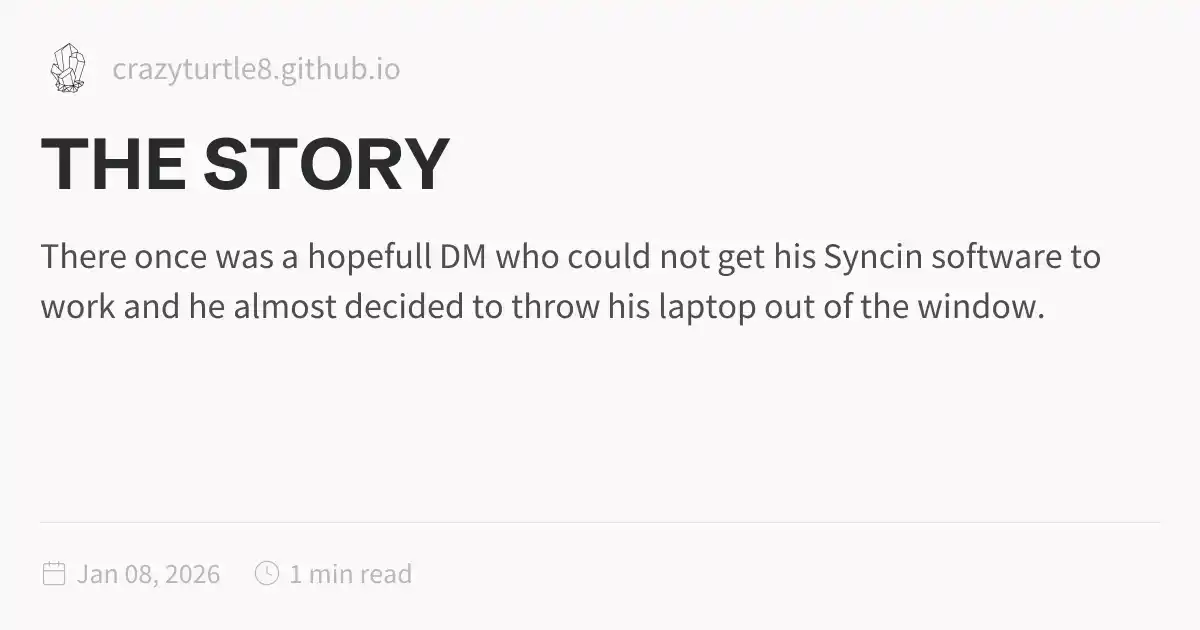
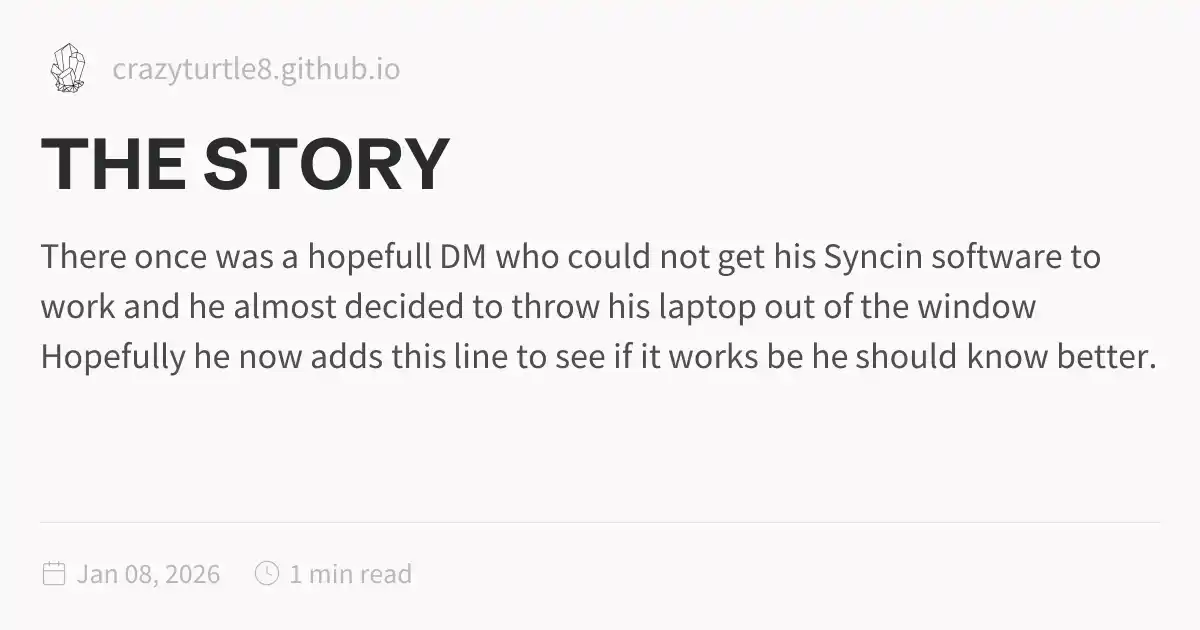
Update 2026-01-08

Changed region(s): [[0.0308, 0.5429, 0.9558, 0.6032]]

diff --git a/DnD/CAMPAIN/Lore/THE-STORY.html b/DnD/CAMPAIN/Lore/THE-STORY.html
@@ -1,5 +1,5 @@
 <!DOCTYPE html>
-<html lang="en" dir="ltr"><head><title>THE STORY</title><meta charset="utf-8"/><link rel="preconnect" href="https://fonts.googleapis.com"/><link rel="preconnect" href="https://fonts.gstatic.com"/><link rel="stylesheet" href="https://fonts.googleapis.com/css2?family=Schibsted Grotesk:wght@400;700&amp;family=Source Sans Pro:ital,wght@0,400;0,600;1,400;1,600&amp;family=IBM Plex Mono:wght@400;600&amp;display=swap"/><link rel="preconnect" href="https://cdnjs.cloudflare.com" crossorigin="anonymous"/><meta name="viewport" content="width=device-width, initial-scale=1.0"/><meta name="og:site_name" content="Quartz 4"/><meta property="og:title" content="THE STORY"/><meta property="og:type" content="website"/><meta name="twitter:card" content="summary_large_image"/><meta name="twitter:title" content="THE STORY"/><meta name="twitter:description" content="There once was a hopefull DM who could not get his Syncin software to work and he almost decided to throw his laptop out of the window."/><meta property="og:description" content="There once was a hopefull DM who could not get his Syncin software to work and he almost decided to throw his laptop out of the window."/><meta property="og:image:alt" content="There once was a hopefull DM who could not get his Syncin software to work and he almost decided to throw his laptop out of the window."/><meta property="twitter:domain" content="crazyturtle8.github.io"/><meta property="og:url" content="https://crazyturtle8.github.io/DnD/CAMPAIN/Lore/THE-STORY"/><meta property="twitter:url" content="https://crazyturtle8.github.io/DnD/CAMPAIN/Lore/THE-STORY"/><link rel="icon" href="../../../static/icon.png"/><meta name="description" content="There once was a hopefull DM who could not get his Syncin software to work and he almost decided to throw his laptop out of the window."/><meta name="generator" content="Quartz"/><link href="../../../index.css" rel="stylesheet" type="text/css" data-persist="true"/><style>.expand-button {
+<html lang="en" dir="ltr"><head><title>THE STORY</title><meta charset="utf-8"/><link rel="preconnect" href="https://fonts.googleapis.com"/><link rel="preconnect" href="https://fonts.gstatic.com"/><link rel="stylesheet" href="https://fonts.googleapis.com/css2?family=Schibsted Grotesk:wght@400;700&amp;family=Source Sans Pro:ital,wght@0,400;0,600;1,400;1,600&amp;family=IBM Plex Mono:wght@400;600&amp;display=swap"/><link rel="preconnect" href="https://cdnjs.cloudflare.com" crossorigin="anonymous"/><meta name="viewport" content="width=device-width, initial-scale=1.0"/><meta name="og:site_name" content="Quartz 4"/><meta property="og:title" content="THE STORY"/><meta property="og:type" content="website"/><meta name="twitter:card" content="summary_large_image"/><meta name="twitter:title" content="THE STORY"/><meta name="twitter:description" content="There once was a hopefull DM who could not get his Syncin software to work and he almost decided to throw his laptop out of the window Hopefully he now adds this line to see if it works be he should know better."/><meta property="og:description" content="There once was a hopefull DM who could not get his Syncin software to work and he almost decided to throw his laptop out of the window Hopefully he now adds this line to see if it works be he should know better."/><meta property="og:image:alt" content="There once was a hopefull DM who could not get his Syncin software to work and he almost decided to throw his laptop out of the window Hopefully he now adds this line to see if it works be he should know better."/><meta property="twitter:domain" content="crazyturtle8.github.io"/><meta property="og:url" content="https://crazyturtle8.github.io/DnD/CAMPAIN/Lore/THE-STORY"/><meta property="twitter:url" content="https://crazyturtle8.github.io/DnD/CAMPAIN/Lore/THE-STORY"/><link rel="icon" href="../../../static/icon.png"/><meta name="description" content="There once was a hopefull DM who could not get his Syncin software to work and he almost decided to throw his laptop out of the window Hopefully he now adds this line to see if it works be he should know better."/><meta name="generator" content="Quartz"/><link href="../../../index.css" rel="stylesheet" type="text/css" data-persist="true"/><style>.expand-button {
   position: absolute;
   display: flex;
   float: right;
@@ -115,7 +115,7 @@ pre:hover > .expand-button {
   padding: 0 12px;
   font-size: 14px;
 }
[2 lines of base64/hex data omitted]
                 s-3.542,0.634-4.898,1.688l-7.669-7.669C16.785,10.424,17,9.74,17,9c0-2.206-1.794-4-4-4S9,6.794,9,9s1.794,4,4,4
                 c0.74,0,1.424-0.215,2.019-0.567l7.669,7.669C21.634,21.458,21,23.154,21,25s0.634,3.542,1.688,4.897L10.024,42.562
                 C8.958,41.595,7.549,41,6,41c-3.309,0-6,2.691-6,6s2.691,6,6,6s6-2.691,6-6c0-1.035-0.263-2.009-0.726-2.86l12.829-12.829

diff --git a/DnD/CAMPAIN/Lore/index.html b/DnD/CAMPAIN/Lore/index.html
@@ -115,6 +115,6 @@ pre:hover > .expand-button {
   padding: 0 12px;
   font-size: 14px;
 }
[2 lines of base64/hex data omitted]
 </script><script type="module" data-persist="true">function E(a,e){if(!a)return;function t(o){o.target===this&&(o.preventDefault(),o.stopPropagation(),e())}function n(o){o.key.startsWith("Esc")&&(o.preventDefault(),e())}a?.addEventListener("click",t),window.addCleanup(()=>a?.removeEventListener("click",t)),document.addEventListener("keydown",n),window.addCleanup(()=>document.removeEventListener("keydown",n))}function f(a){for(;a.firstChild;)a.removeChild(a.firstChild)}var m=class{constructor(e,t){this.container=e;this.content=t;this.setupEventListeners(),this.setupNavigationControls(),this.resetTransform()}isDragging=!1;startPan={x:0,y:0};currentPan={x:0,y:0};scale=1;MIN_SCALE=.5;MAX_SCALE=3;cleanups=[];setupEventListeners(){let e=this.onMouseDown.bind(this),t=this.onMouseMove.bind(this),n=this.onMouseUp.bind(this),o=this.onTouchStart.bind(this),r=this.onTouchMove.bind(this),i=this.onTouchEnd.bind(this),s=this.resetTransform.bind(this);this.container.addEventListener("mousedown",e),document.addEventListener("mousemove",t),document.addEventListener("mouseup",n),this.container.addEventListener("touchstart",o,{passive:!1}),document.addEventListener("touchmove",r,{passive:!1}),document.addEventListener("touchend",i),window.addEventListener("resize",s),this.cleanups.push(()=>this.container.removeEventListener("mousedown",e),()=>document.removeEventListener("mousemove",t),()=>document.removeEventListener("mouseup",n),()=>this.container.removeEventListener("touchstart",o),()=>document.removeEventListener("touchmove",r),()=>document.removeEventListener("touchend",i),()=>window.removeEventListener("resize",s))}cleanup(){for(let e of this.cleanups)e()}setupNavigationControls(){let e=document.createElement("div");e.className="mermaid-controls";let t=this.createButton("+",()=>this.zoom(.1)),n=this.createButton("-",()=>this.zoom(-.1)),o=this.createButton("Reset",()=>this.resetTransform());e.appendChild(n),e.appendChild(o),e.appendChild(t),this.container.appendChild(e)}createButton(e,t){let n=document.createElement("button");return n.textContent=e,n.className="mermaid-control-button",n.addEventListener("click",t),window.addCleanup(()=>n.removeEventListener("click",t)),n}onMouseDown(e){e.button===0&&(this.isDragging=!0,this.startPan={x:e.clientX-this.currentPan.x,y:e.clientY-this.currentPan.y},this.container.style.cursor="grabbing")}onMouseMove(e){this.isDragging&&(e.preventDefault(),this.currentPan={x:e.clientX-this.startPan.x,y:e.clientY-this.startPan.y},this.updateTransform())}onMouseUp(){this.isDragging=!1,this.container.style.cursor="grab"}onTouchStart(e){if(e.touches.length!==1)return;this.isDragging=!0;let t=e.touches[0];this.startPan={x:t.clientX-this.currentPan.x,y:t.clientY-this.currentPan.y}}onTouchMove(e){if(!this.isDragging||e.touches.length!==1)return;e.preventDefault();let t=e.touches[0];this.currentPan={x:t.clientX-this.startPan.x,y:t.clientY-this.startPan.y},this.updateTransform()}onTouchEnd(){this.isDragging=!1}zoom(e){let t=Math.min(Math.max(this.scale+e,this.MIN_SCALE),this.MAX_SCALE),n=this.content.getBoundingClientRect(),o=n.width/2,r=n.height/2,i=t-this.scale;this.currentPan.x-=o*i,this.currentPan.y-=r*i,this.scale=t,this.updateTransform()}updateTransform(){this.content.style.transform=`translate(${this.currentPan.x}px, ${this.currentPan.y}px) scale(${this.scale})`}resetTransform(){let t=this.content.querySelector("svg").getBoundingClientRect(),n=t.width/this.scale,o=t.height/this.scale;this.scale=1,this.currentPan={x:(this.container.clientWidth-n)/2,y:(this.container.clientHeight-o)/2},this.updateTransform()}},T=["--secondary","--tertiary","--gray","--light","--lightgray","--highlight","--dark","--darkgray","--codeFont"],y;document.addEventListener("nav",async()=>{let e=document.querySelector(".center").querySelectorAll("code.mermaid");if(e.length===0)return;y||=await import("https://cdnjs.cloudflare.com/ajax/libs/mermaid/11.4.0/mermaid.esm.min.mjs");let t=y.default,n=new WeakMap;for(let r of e)n.set(r,r.innerText);async function o(){for(let s of e){s.removeAttribute("data-processed");let c=n.get(s);c&&(s.innerHTML=c)}let r=T.reduce((s,c)=>(s[c]=window.getComputedStyle(document.documentElement).getPropertyValue(c),s),{}),i=document.documentElement.getAttribute("saved-theme")==="dark";t.initialize({startOnLoad:!1,securityLevel:"loose",theme:i?"dark":"base",themeVariables:{fontFamily:r["--codeFont"],primaryColor:r["--light"],primaryTextColor:r["--darkgray"],primaryBorderColor:r["--tertiary"],lineColor:r["--darkgray"],secondaryColor:r["--secondary"],tertiaryColor:r["--tertiary"],clusterBkg:r["--light"],edgeLabelBackground:r["--highlight"]}}),await t.run({nodes:e})}await o(),document.addEventListener("themechange",o),window.addCleanup(()=>document.removeEventListener("themechange",o));for(let r=0;r<e.length;r++){let v=function(){let g=l.querySelector("#mermaid-space"),h=l.querySelector(".mermaid-content");if(!h)return;f(h);let w=i.querySelector("svg").cloneNode(!0);h.appendChild(w),l.classList.add("active"),g.style.cursor="grab",u=new m(g,h)},M=function(){l.classList.remove("active"),u?.cleanup(),u=null},i=e[r],s=i.parentElement,c=s.querySelector(".clipboard-button"),d=s.querySelector(".expand-button"),p=window.getComputedStyle(c),L=c.offsetWidth+parseFloat(p.marginLeft||"0")+parseFloat(p.marginRight||"0");d.style.right=`calc(${L}px + 0.3rem)`,s.prepend(d);let l=s.querySelector("#mermaid-container");if(!l)return;let u=null;d.addEventListener("click",v),E(l,M),window.addCleanup(()=>{u?.cleanup(),d.removeEventListener("click",v)})}});
 </script><script src="https://cdn.jsdelivr.net/npm/katex@0.16.11/dist/contrib/copy-tex.min.js" type="application/javascript" data-persist="true"></script><script src="../../../postscript.js" type="module" data-persist="true"></script></html>

diff --git a/DnD/CAMPAIN/index.html b/DnD/CAMPAIN/index.html
@@ -115,6 +115,6 @@ pre:hover > .expand-button {
   padding: 0 12px;
   font-size: 14px;
 }
[2 lines of base64/hex data omitted]
 </script><script type="module" data-persist="true">function E(a,e){if(!a)return;function t(o){o.target===this&&(o.preventDefault(),o.stopPropagation(),e())}function n(o){o.key.startsWith("Esc")&&(o.preventDefault(),e())}a?.addEventListener("click",t),window.addCleanup(()=>a?.removeEventListener("click",t)),document.addEventListener("keydown",n),window.addCleanup(()=>document.removeEventListener("keydown",n))}function f(a){for(;a.firstChild;)a.removeChild(a.firstChild)}var m=class{constructor(e,t){this.container=e;this.content=t;this.setupEventListeners(),this.setupNavigationControls(),this.resetTransform()}isDragging=!1;startPan={x:0,y:0};currentPan={x:0,y:0};scale=1;MIN_SCALE=.5;MAX_SCALE=3;cleanups=[];setupEventListeners(){let e=this.onMouseDown.bind(this),t=this.onMouseMove.bind(this),n=this.onMouseUp.bind(this),o=this.onTouchStart.bind(this),r=this.onTouchMove.bind(this),i=this.onTouchEnd.bind(this),s=this.resetTransform.bind(this);this.container.addEventListener("mousedown",e),document.addEventListener("mousemove",t),document.addEventListener("mouseup",n),this.container.addEventListener("touchstart",o,{passive:!1}),document.addEventListener("touchmove",r,{passive:!1}),document.addEventListener("touchend",i),window.addEventListener("resize",s),this.cleanups.push(()=>this.container.removeEventListener("mousedown",e),()=>document.removeEventListener("mousemove",t),()=>document.removeEventListener("mouseup",n),()=>this.container.removeEventListener("touchstart",o),()=>document.removeEventListener("touchmove",r),()=>document.removeEventListener("touchend",i),()=>window.removeEventListener("resize",s))}cleanup(){for(let e of this.cleanups)e()}setupNavigationControls(){let e=document.createElement("div");e.className="mermaid-controls";let t=this.createButton("+",()=>this.zoom(.1)),n=this.createButton("-",()=>this.zoom(-.1)),o=this.createButton("Reset",()=>this.resetTransform());e.appendChild(n),e.appendChild(o),e.appendChild(t),this.container.appendChild(e)}createButton(e,t){let n=document.createElement("button");return n.textContent=e,n.className="mermaid-control-button",n.addEventListener("click",t),window.addCleanup(()=>n.removeEventListener("click",t)),n}onMouseDown(e){e.button===0&&(this.isDragging=!0,this.startPan={x:e.clientX-this.currentPan.x,y:e.clientY-this.currentPan.y},this.container.style.cursor="grabbing")}onMouseMove(e){this.isDragging&&(e.preventDefault(),this.currentPan={x:e.clientX-this.startPan.x,y:e.clientY-this.startPan.y},this.updateTransform())}onMouseUp(){this.isDragging=!1,this.container.style.cursor="grab"}onTouchStart(e){if(e.touches.length!==1)return;this.isDragging=!0;let t=e.touches[0];this.startPan={x:t.clientX-this.currentPan.x,y:t.clientY-this.currentPan.y}}onTouchMove(e){if(!this.isDragging||e.touches.length!==1)return;e.preventDefault();let t=e.touches[0];this.currentPan={x:t.clientX-this.startPan.x,y:t.clientY-this.startPan.y},this.updateTransform()}onTouchEnd(){this.isDragging=!1}zoom(e){let t=Math.min(Math.max(this.scale+e,this.MIN_SCALE),this.MAX_SCALE),n=this.content.getBoundingClientRect(),o=n.width/2,r=n.height/2,i=t-this.scale;this.currentPan.x-=o*i,this.currentPan.y-=r*i,this.scale=t,this.updateTransform()}updateTransform(){this.content.style.transform=`translate(${this.currentPan.x}px, ${this.currentPan.y}px) scale(${this.scale})`}resetTransform(){let t=this.content.querySelector("svg").getBoundingClientRect(),n=t.width/this.scale,o=t.height/this.scale;this.scale=1,this.currentPan={x:(this.container.clientWidth-n)/2,y:(this.container.clientHeight-o)/2},this.updateTransform()}},T=["--secondary","--tertiary","--gray","--light","--lightgray","--highlight","--dark","--darkgray","--codeFont"],y;document.addEventListener("nav",async()=>{let e=document.querySelector(".center").querySelectorAll("code.mermaid");if(e.length===0)return;y||=await import("https://cdnjs.cloudflare.com/ajax/libs/mermaid/11.4.0/mermaid.esm.min.mjs");let t=y.default,n=new WeakMap;for(let r of e)n.set(r,r.innerText);async function o(){for(let s of e){s.removeAttribute("data-processed");let c=n.get(s);c&&(s.innerHTML=c)}let r=T.reduce((s,c)=>(s[c]=window.getComputedStyle(document.documentElement).getPropertyValue(c),s),{}),i=document.documentElement.getAttribute("saved-theme")==="dark";t.initialize({startOnLoad:!1,securityLevel:"loose",theme:i?"dark":"base",themeVariables:{fontFamily:r["--codeFont"],primaryColor:r["--light"],primaryTextColor:r["--darkgray"],primaryBorderColor:r["--tertiary"],lineColor:r["--darkgray"],secondaryColor:r["--secondary"],tertiaryColor:r["--tertiary"],clusterBkg:r["--light"],edgeLabelBackground:r["--highlight"]}}),await t.run({nodes:e})}await o(),document.addEventListener("themechange",o),window.addCleanup(()=>document.removeEventListener("themechange",o));for(let r=0;r<e.length;r++){let v=function(){let g=l.querySelector("#mermaid-space"),h=l.querySelector(".mermaid-content");if(!h)return;f(h);let w=i.querySelector("svg").cloneNode(!0);h.appendChild(w),l.classList.add("active"),g.style.cursor="grab",u=new m(g,h)},M=function(){l.classList.remove("active"),u?.cleanup(),u=null},i=e[r],s=i.parentElement,c=s.querySelector(".clipboard-button"),d=s.querySelector(".expand-button"),p=window.getComputedStyle(c),L=c.offsetWidth+parseFloat(p.marginLeft||"0")+parseFloat(p.marginRight||"0");d.style.right=`calc(${L}px + 0.3rem)`,s.prepend(d);let l=s.querySelector("#mermaid-container");if(!l)return;let u=null;d.addEventListener("click",v),E(l,M),window.addCleanup(()=>{u?.cleanup(),d.removeEventListener("click",v)})}});
 </script><script src="https://cdn.jsdelivr.net/npm/katex@0.16.11/dist/contrib/copy-tex.min.js" type="application/javascript" data-persist="true"></script><script src="../../postscript.js" type="module" data-persist="true"></script></html>

diff --git a/DnD/index.html b/DnD/index.html
@@ -115,6 +115,6 @@ pre:hover > .expand-button {
   padding: 0 12px;
   font-size: 14px;
 }
[2 lines of base64/hex data omitted]
 </script><script type="module" data-persist="true">function E(a,e){if(!a)return;function t(o){o.target===this&&(o.preventDefault(),o.stopPropagation(),e())}function n(o){o.key.startsWith("Esc")&&(o.preventDefault(),e())}a?.addEventListener("click",t),window.addCleanup(()=>a?.removeEventListener("click",t)),document.addEventListener("keydown",n),window.addCleanup(()=>document.removeEventListener("keydown",n))}function f(a){for(;a.firstChild;)a.removeChild(a.firstChild)}var m=class{constructor(e,t){this.container=e;this.content=t;this.setupEventListeners(),this.setupNavigationControls(),this.resetTransform()}isDragging=!1;startPan={x:0,y:0};currentPan={x:0,y:0};scale=1;MIN_SCALE=.5;MAX_SCALE=3;cleanups=[];setupEventListeners(){let e=this.onMouseDown.bind(this),t=this.onMouseMove.bind(this),n=this.onMouseUp.bind(this),o=this.onTouchStart.bind(this),r=this.onTouchMove.bind(this),i=this.onTouchEnd.bind(this),s=this.resetTransform.bind(this);this.container.addEventListener("mousedown",e),document.addEventListener("mousemove",t),document.addEventListener("mouseup",n),this.container.addEventListener("touchstart",o,{passive:!1}),document.addEventListener("touchmove",r,{passive:!1}),document.addEventListener("touchend",i),window.addEventListener("resize",s),this.cleanups.push(()=>this.container.removeEventListener("mousedown",e),()=>document.removeEventListener("mousemove",t),()=>document.removeEventListener("mouseup",n),()=>this.container.removeEventListener("touchstart",o),()=>document.removeEventListener("touchmove",r),()=>document.removeEventListener("touchend",i),()=>window.removeEventListener("resize",s))}cleanup(){for(let e of this.cleanups)e()}setupNavigationControls(){let e=document.createElement("div");e.className="mermaid-controls";let t=this.createButton("+",()=>this.zoom(.1)),n=this.createButton("-",()=>this.zoom(-.1)),o=this.createButton("Reset",()=>this.resetTransform());e.appendChild(n),e.appendChild(o),e.appendChild(t),this.container.appendChild(e)}createButton(e,t){let n=document.createElement("button");return n.textContent=e,n.className="mermaid-control-button",n.addEventListener("click",t),window.addCleanup(()=>n.removeEventListener("click",t)),n}onMouseDown(e){e.button===0&&(this.isDragging=!0,this.startPan={x:e.clientX-this.currentPan.x,y:e.clientY-this.currentPan.y},this.container.style.cursor="grabbing")}onMouseMove(e){this.isDragging&&(e.preventDefault(),this.currentPan={x:e.clientX-this.startPan.x,y:e.clientY-this.startPan.y},this.updateTransform())}onMouseUp(){this.isDragging=!1,this.container.style.cursor="grab"}onTouchStart(e){if(e.touches.length!==1)return;this.isDragging=!0;let t=e.touches[0];this.startPan={x:t.clientX-this.currentPan.x,y:t.clientY-this.currentPan.y}}onTouchMove(e){if(!this.isDragging||e.touches.length!==1)return;e.preventDefault();let t=e.touches[0];this.currentPan={x:t.clientX-this.startPan.x,y:t.clientY-this.startPan.y},this.updateTransform()}onTouchEnd(){this.isDragging=!1}zoom(e){let t=Math.min(Math.max(this.scale+e,this.MIN_SCALE),this.MAX_SCALE),n=this.content.getBoundingClientRect(),o=n.width/2,r=n.height/2,i=t-this.scale;this.currentPan.x-=o*i,this.currentPan.y-=r*i,this.scale=t,this.updateTransform()}updateTransform(){this.content.style.transform=`translate(${this.currentPan.x}px, ${this.currentPan.y}px) scale(${this.scale})`}resetTransform(){let t=this.content.querySelector("svg").getBoundingClientRect(),n=t.width/this.scale,o=t.height/this.scale;this.scale=1,this.currentPan={x:(this.container.clientWidth-n)/2,y:(this.container.clientHeight-o)/2},this.updateTransform()}},T=["--secondary","--tertiary","--gray","--light","--lightgray","--highlight","--dark","--darkgray","--codeFont"],y;document.addEventListener("nav",async()=>{let e=document.querySelector(".center").querySelectorAll("code.mermaid");if(e.length===0)return;y||=await import("https://cdnjs.cloudflare.com/ajax/libs/mermaid/11.4.0/mermaid.esm.min.mjs");let t=y.default,n=new WeakMap;for(let r of e)n.set(r,r.innerText);async function o(){for(let s of e){s.removeAttribute("data-processed");let c=n.get(s);c&&(s.innerHTML=c)}let r=T.reduce((s,c)=>(s[c]=window.getComputedStyle(document.documentElement).getPropertyValue(c),s),{}),i=document.documentElement.getAttribute("saved-theme")==="dark";t.initialize({startOnLoad:!1,securityLevel:"loose",theme:i?"dark":"base",themeVariables:{fontFamily:r["--codeFont"],primaryColor:r["--light"],primaryTextColor:r["--darkgray"],primaryBorderColor:r["--tertiary"],lineColor:r["--darkgray"],secondaryColor:r["--secondary"],tertiaryColor:r["--tertiary"],clusterBkg:r["--light"],edgeLabelBackground:r["--highlight"]}}),await t.run({nodes:e})}await o(),document.addEventListener("themechange",o),window.addCleanup(()=>document.removeEventListener("themechange",o));for(let r=0;r<e.length;r++){let v=function(){let g=l.querySelector("#mermaid-space"),h=l.querySelector(".mermaid-content");if(!h)return;f(h);let w=i.querySelector("svg").cloneNode(!0);h.appendChild(w),l.classList.add("active"),g.style.cursor="grab",u=new m(g,h)},M=function(){l.classList.remove("active"),u?.cleanup(),u=null},i=e[r],s=i.parentElement,c=s.querySelector(".clipboard-button"),d=s.querySelector(".expand-button"),p=window.getComputedStyle(c),L=c.offsetWidth+parseFloat(p.marginLeft||"0")+parseFloat(p.marginRight||"0");d.style.right=`calc(${L}px + 0.3rem)`,s.prepend(d);let l=s.querySelector("#mermaid-container");if(!l)return;let u=null;d.addEventListener("click",v),E(l,M),window.addCleanup(()=>{u?.cleanup(),d.removeEventListener("click",v)})}});
 </script><script src="https://cdn.jsdelivr.net/npm/katex@0.16.11/dist/contrib/copy-tex.min.js" type="application/javascript" data-persist="true"></script><script src="../postscript.js" type="module" data-persist="true"></script></html>

diff --git a/index.html b/index.html
@@ -115,7 +115,7 @@ pre:hover > .expand-button {
   padding: 0 12px;
   font-size: 14px;
 }
[2 lines of base64/hex data omitted]
 <p>This is my digital garden for D&amp;D campaign and Lore
 If you’re here without getting the link from me, please leave you’re not supposed to read this yet :)</p>
 <h2 id="contents">Contents<a role="anchor" aria-hidden="true" tabindex="-1" data-no-popover="true" href="#contents" class="internal"><svg width="18" height="18" viewBox="0 0 24 24" fill="none" stroke="currentColor" stroke-width="2" stroke-linecap="round" stroke-linejoin="round"><path d="M10 13a5 5 0 0 0 7.54.54l3-3a5 5 0 0 0-7.07-7.07l-1.72 1.71"></path><path d="M14 11a5 5 0 0 0-7.54-.54l-3 3a5 5 0 0 0 7.07 7.07l1.71-1.71"></path></svg></a></h2>
